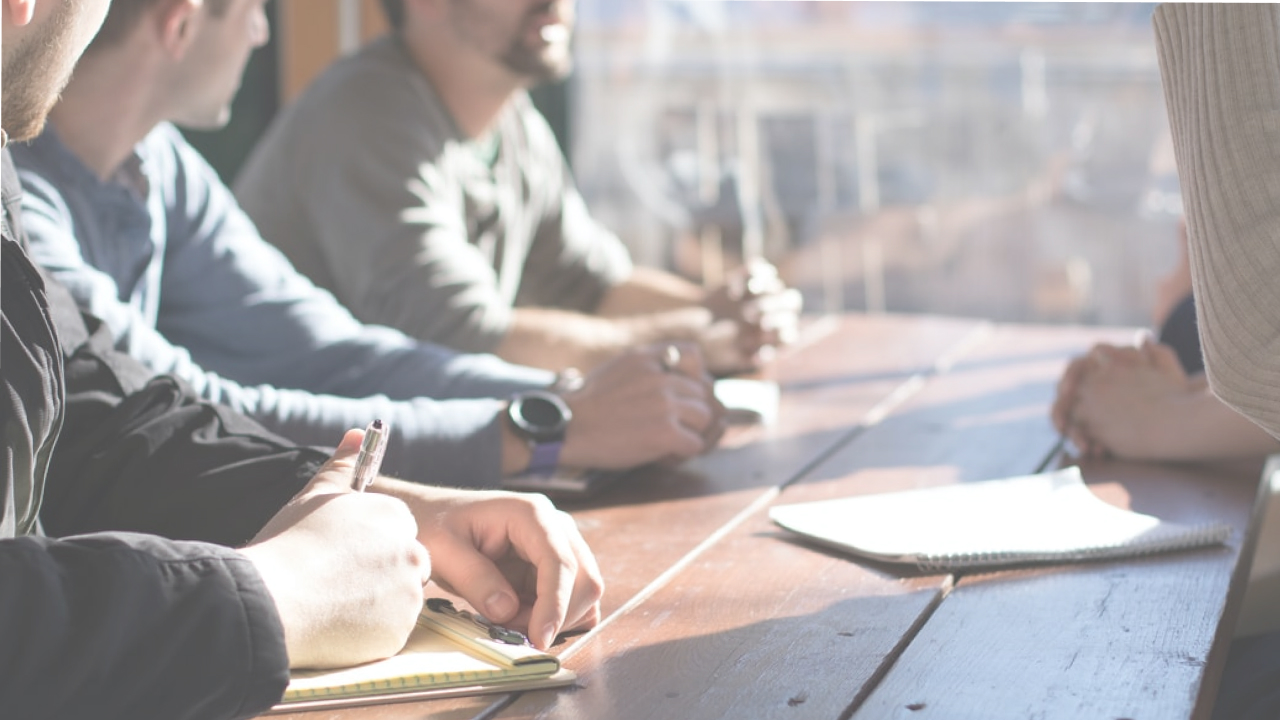
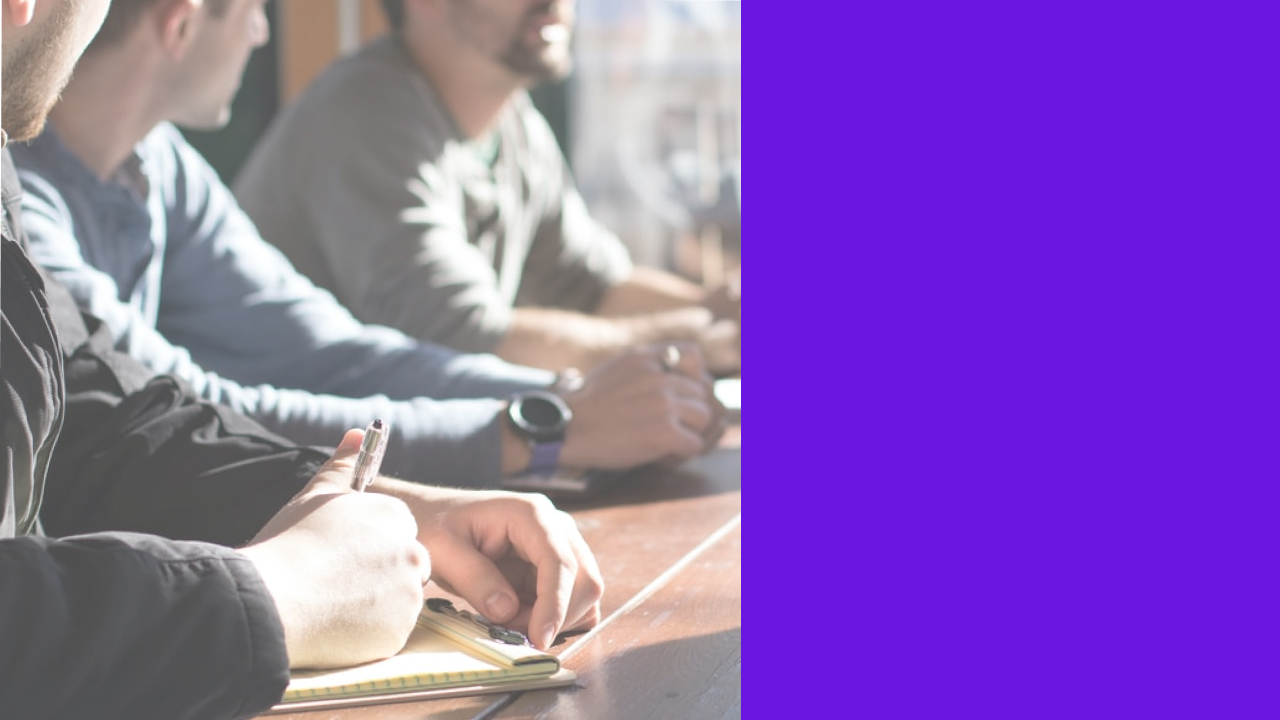
Lottie, Home 2/3

diff --git a/src/pages/Home/index.js b/src/pages/Home/index.js
@@ -1,18 +1,38 @@
 import React from 'react';
+import Lottie from 'react-lottie';
 
-import { Container, BackgroundImage, BtnStartNow, TitleButton } from './styles';
+import {
+  Container,
+  LottieContainer,
+  BackgroundImage,
+  BtnStartNow,
+  TitleButton,
+} from './styles';
 
 import Background from '../../assets/background-home.jpg';
-import arrowRight from '../../assets/arrow-right.png';
+import animationData from '../../lottie/finance.json';
 
 export default function Home() {
   function handleStartNow() {
     alert('Teste');
   }
 
+  const defaultOptions = {
+    loop: true,
+    autoplay: true,
+    animationData: animationData,
+    rendererSettings: {
+      preserveAspectRatio: 'xMidYMid slice',
+    },
+  };
+
   return (
     <Container>
       <BackgroundImage src={Background} />
+
+      <LottieContainer>
+        <Lottie options={defaultOptions} height={400} width={400} />
+      </LottieContainer>
 
       <BtnStartNow onClick={handleStartNow}>
         <TitleButton>Start now</TitleButton>

diff --git a/src/pages/Home/styles.js b/src/pages/Home/styles.js
@@ -3,6 +3,12 @@ import styled from 'styled-components';
 export const Container = styled.div`
   flex: 1;
 `;
+export const LottieContainer = styled.div`
+  position: absolute;
+
+  top: 18.65136298421808vh;
+  right: 9.469153515064562vh;
+`;
 
 export const BackgroundImage = styled.img`
   position: absolute;
@@ -17,7 +23,7 @@ export const BtnStartNow = styled.button`
   width: 20%;
 
   bottom: 21px;
-  right: 28px;
+  right: 125px;
   background-color: #f12711;
 
   border-radius: 10px;
